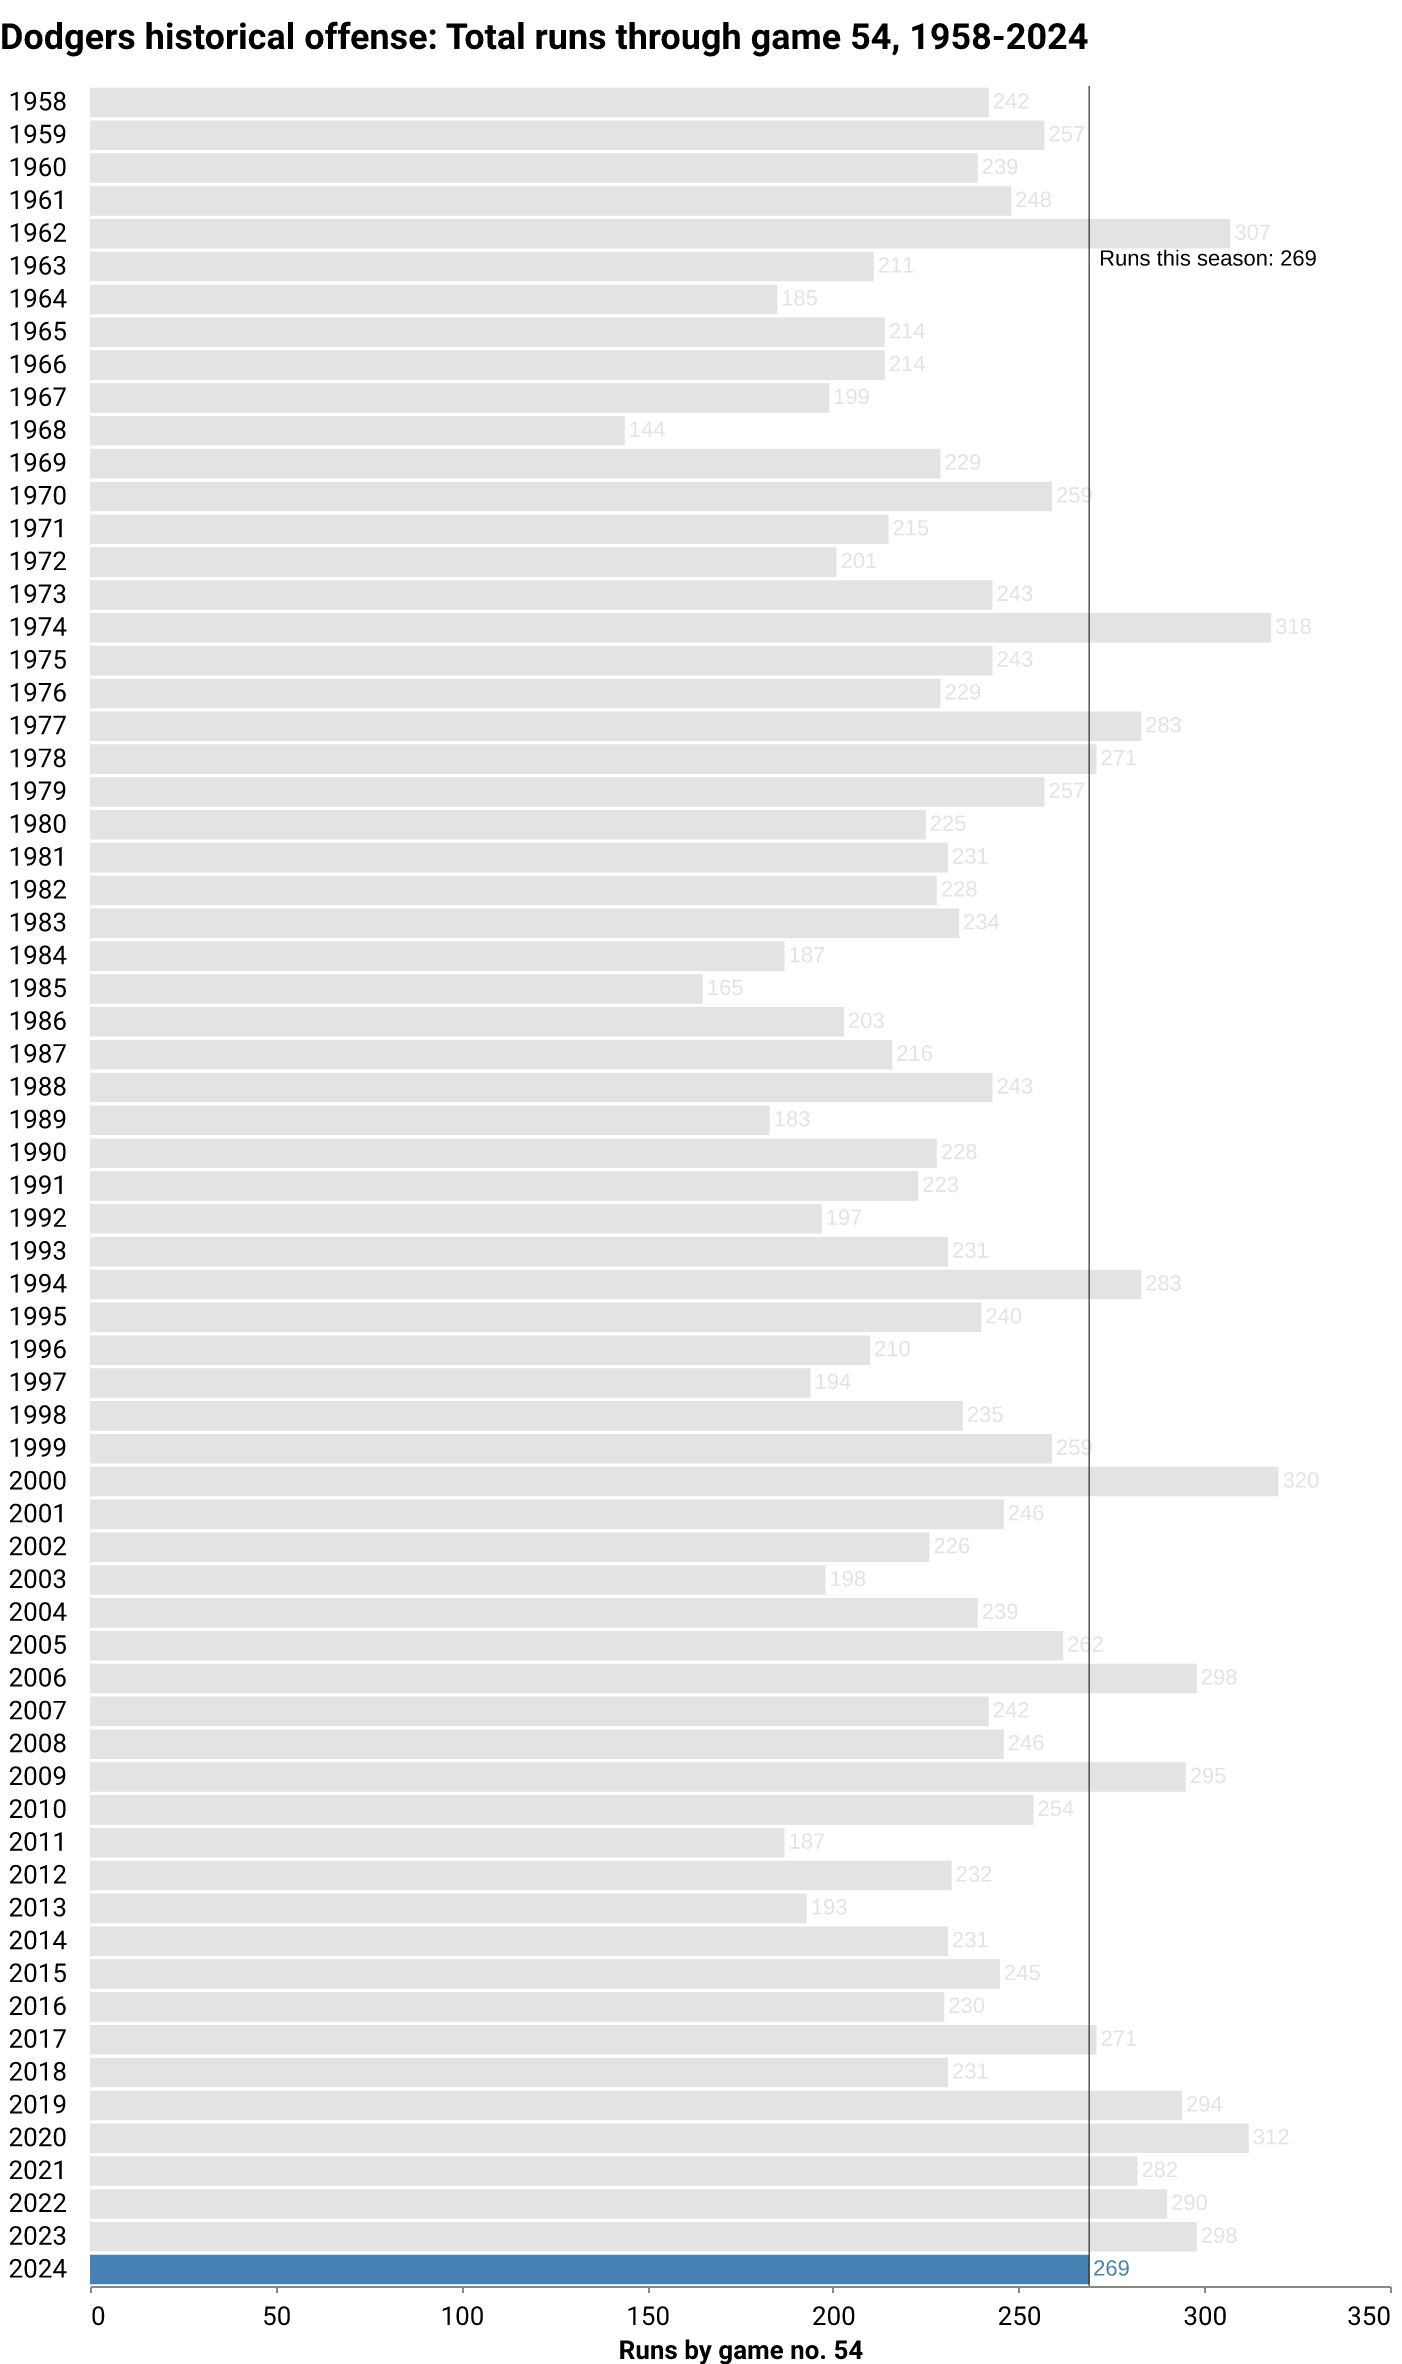
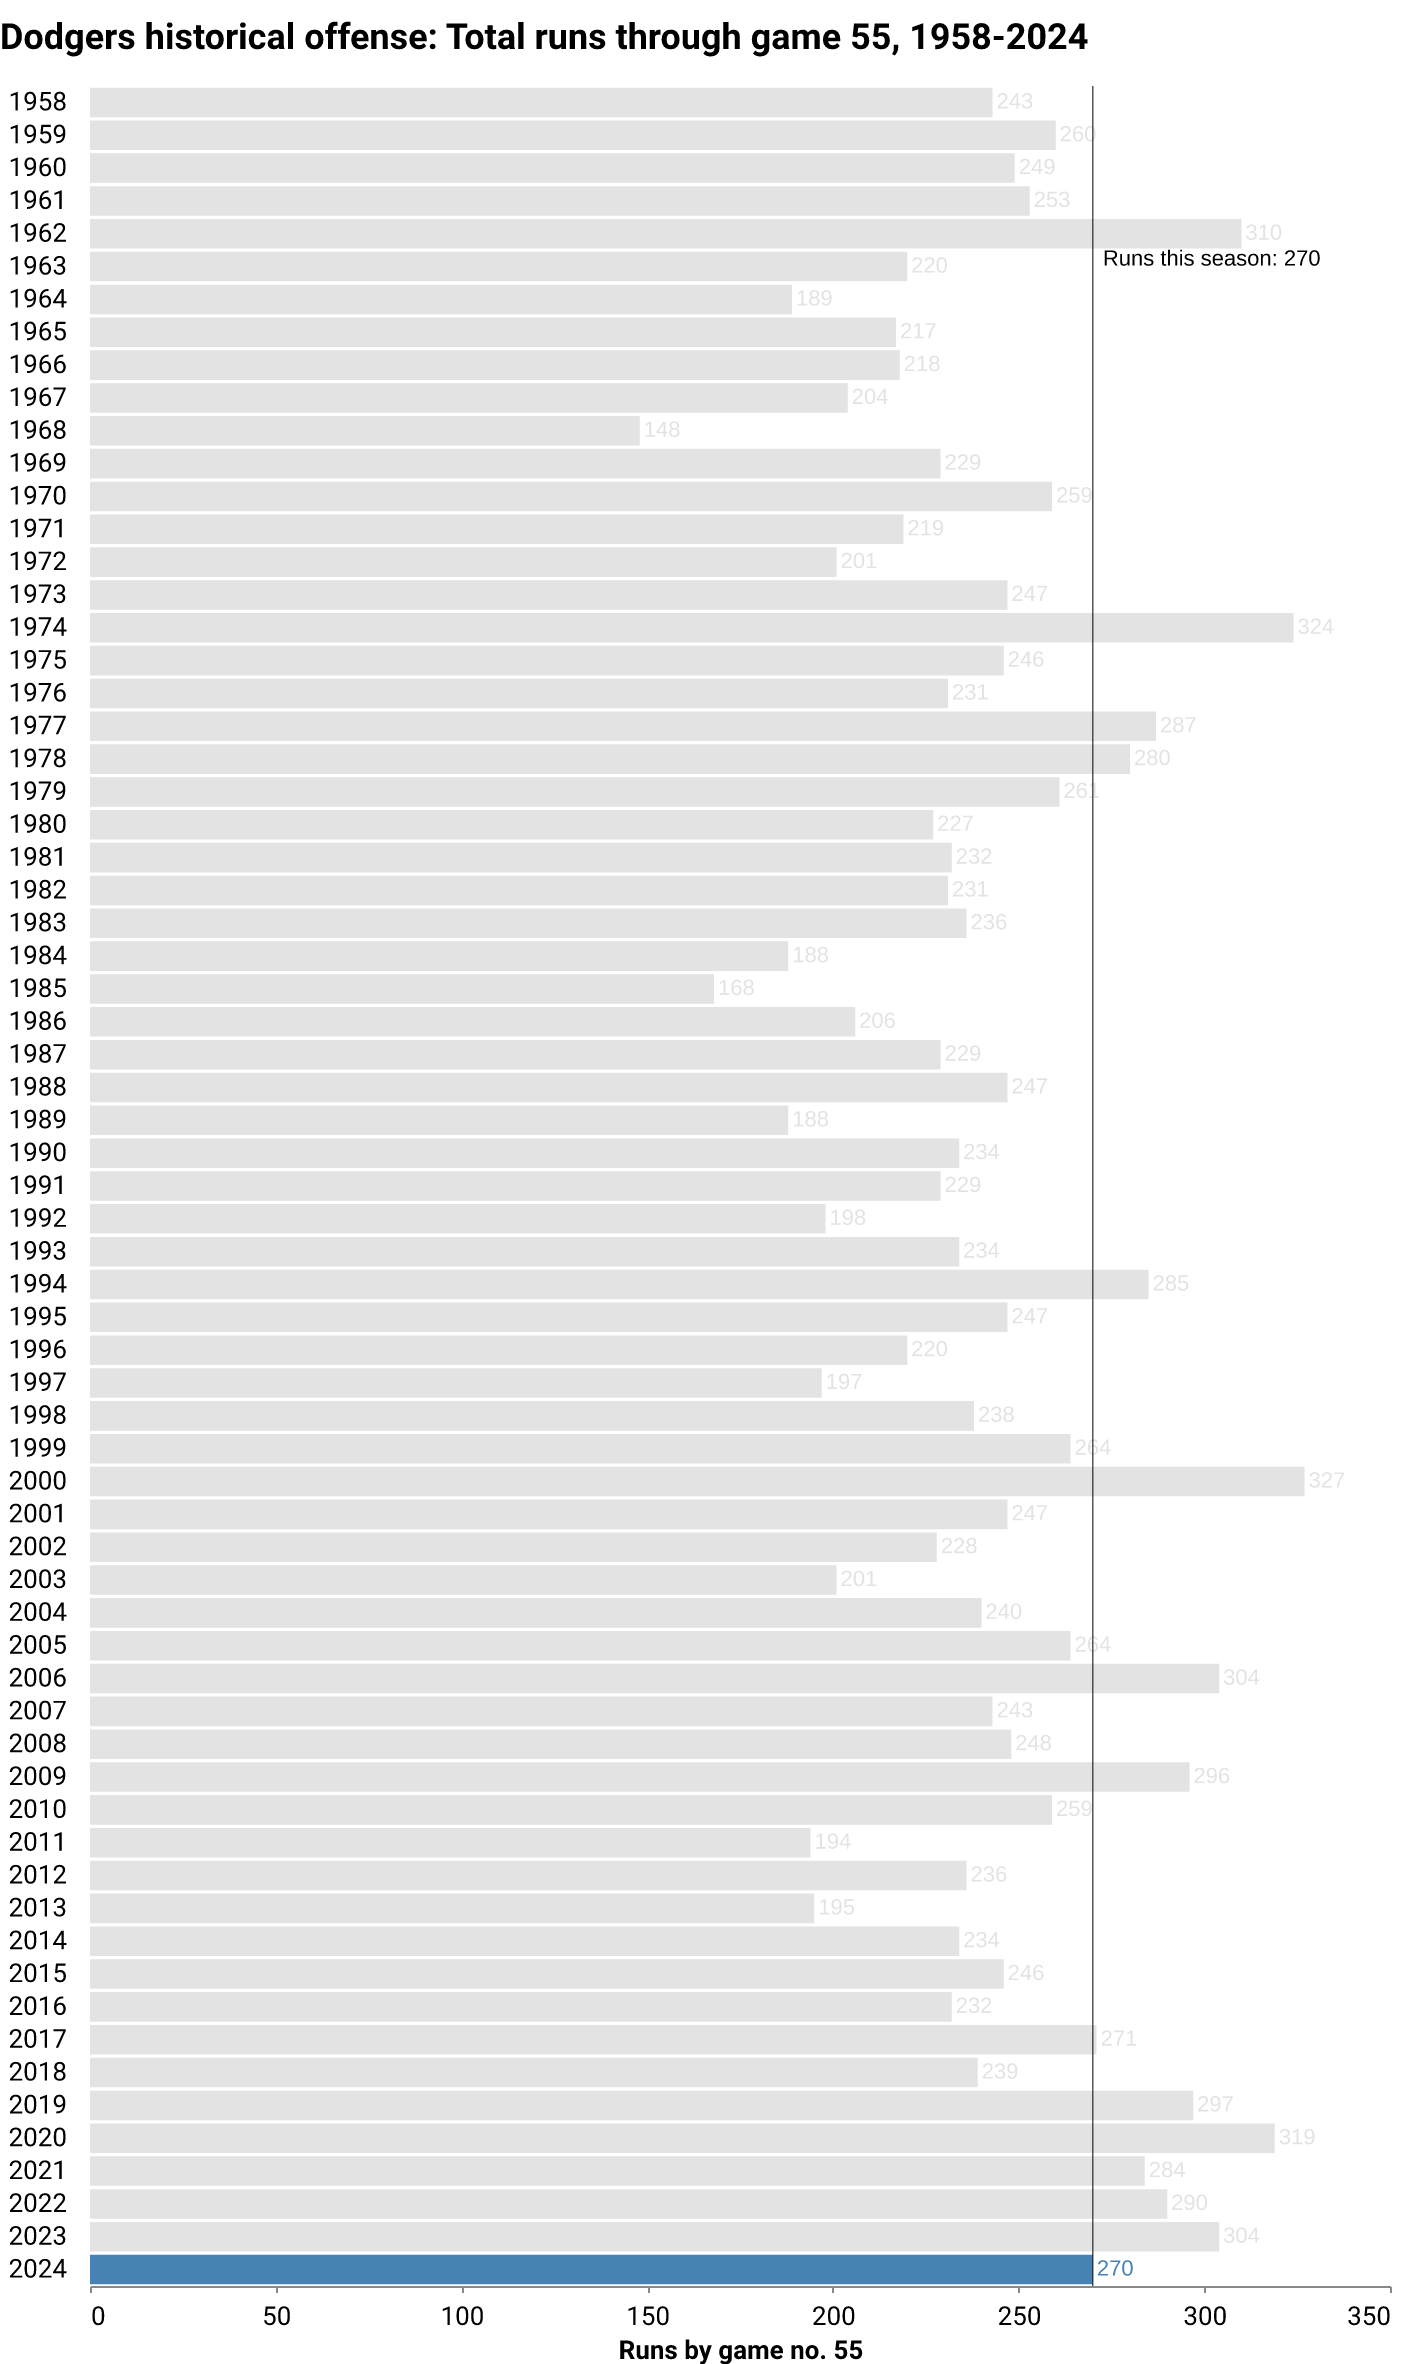
deploy: e6bfd60a1daa411fcebb4711ddaecc462eea148d

diff --git a/index.html b/index.html
@@ -174,7 +174,7 @@
 
 <div class="page-topper">
   <h1 class="headline">How are the Dodgers doing?</h1>
-  <p class="subhead"><span class="highlight">LOS ANGELES</span> <span class="updated">(May 26)</span> — After <span class="highlight">54</span> games this season, the Dodgers are in <span class="highlight">1st</span> place in the National League West division. The team has compiled a <span class="highlight">33-21</span> record, winning <span class="highlight">61%</span> of its games so far. The last game was a <span class="highlight">1-3</span> away <span class="highlight">loss</span> against the Cincinnati Reds in front of <span class="highlight">41,880</span> fans. They've won <span class="highlight">4 of the last 10</span>. </p>
+  <p class="subhead"><span class="highlight">LOS ANGELES</span> <span class="updated">(May 27)</span> — After <span class="highlight">55</span> games this season, the Dodgers are in <span class="highlight">1st</span> place in the National League West division. The team has compiled a <span class="highlight">33-22</span> record, winning <span class="highlight">60%</span> of its games so far. The last game was a <span class="highlight">1-4</span> away <span class="highlight">loss</span> against the Cincinnati Reds in front of <span class="highlight">35,619</span> fans. They've won <span class="highlight">4 of the last 10</span>. </p>
 <div>
 
 
@@ -198,7 +198,7 @@
             <p class="card-text">33</p>
           </div>
           <div class="card-footer text-muted">
-        This point last season: 32
+        This point last season: 33
           </div>
         </div>
       </div>
@@ -211,7 +211,7 @@
             Losses
           </div>
           <div class="card-body">
-            <p class="card-text">21</p>
+            <p class="card-text">22</p>
           </div>
           <div class="card-footer text-muted">
         This point last season: 22
@@ -227,10 +227,10 @@
             Record
           </div>
           <div class="card-body">
-            <p class="card-text">33-21</p>
+            <p class="card-text">33-22</p>
           </div>
           <div class="card-footer text-muted">
-        This point last season: 32-22
+        This point last season: 33-22
           </div>
         </div>
       </div>
@@ -243,10 +243,10 @@
             Win percentage
           </div>
           <div class="card-body">
-            <p class="card-text">61%</p>
+            <p class="card-text">60%</p>
           </div>
           <div class="card-footer text-muted">
-        This point last season: 59%
+        This point last season: 60%
           </div>
         </div>
       </div>
@@ -291,7 +291,7 @@
             Runs
           </div>
           <div class="card-body">
-            <p class="card-text">269</p>
+            <p class="card-text">270</p>
           </div>
           <div class="card-footer text-muted">
         League rank: 2
@@ -307,10 +307,10 @@
             Runs against
           </div>
           <div class="card-body">
-            <p class="card-text">197</p>
+            <p class="card-text">201</p>
           </div>
           <div class="card-footer text-muted">
-        This point last season: 248
+        This point last season: 249
           </div>
         </div>
       </div>
@@ -323,10 +323,10 @@
             Run differential
           </div>
           <div class="card-body">
-            <p class="card-text">72</p>
+            <p class="card-text">69</p>
           </div>
           <div class="card-footer text-muted">
-        This point last season: 50
+        This point last season: 55
           </div>
         </div>
       </div>
@@ -392,7 +392,7 @@
             Batting average
           </div>
           <div class="card-body">
-            <p class="card-text">.255</p>
+            <p class="card-text">.253</p>
           </div>
           <div class="card-footer text-muted">
         Last decade average: .253
@@ -424,7 +424,7 @@
             Home runs/game
           </div>
           <div class="card-body">
-            <p class="card-text">1.26</p>
+            <p class="card-text">1.24</p>
           </div>
           <div class="card-footer text-muted">
         Last decade average: 1.36
@@ -440,7 +440,7 @@
             On-base percentage
           </div>
           <div class="card-body">
-            <p class="card-text">.335</p>
+            <p class="card-text">.333</p>
           </div>
           <div class="card-footer text-muted">
         Last decade average: .332
@@ -472,7 +472,7 @@
             Stolen bases/game
           </div>
           <div class="card-body">
-            <p class="card-text">0.63</p>
+            <p class="card-text">0.62</p>
           </div>
           <div class="card-footer text-muted">
         Rate all last season: 0.65
@@ -543,7 +543,7 @@
             Strikeouts
           </div>
           <div class="card-body">
-            <p class="card-text">453</p>
+            <p class="card-text">462</p>
           </div>
           <div class="card-footer text-muted">
         League rank: 4
@@ -559,7 +559,7 @@
             Walks
           </div>
           <div class="card-body">
-            <p class="card-text">157</p>
+            <p class="card-text">160</p>
           </div>
           <div class="card-footer text-muted">
         League rank: 6
@@ -575,10 +575,10 @@
             ERA
           </div>
           <div class="card-body">
-            <p class="card-text">3.40</p>
+            <p class="card-text">3.42</p>
           </div>
           <div class="card-footer text-muted">
-        League rank: 2
+        League rank: 3
           </div>
         </div>
       </div>
@@ -656,7 +656,7 @@
 
 
 
-<p class="dated">Notes: Last updated May 26, 2024, 3:03 PM PT. More <a href="https://github.com/stiles/dodgers/blob/main/README.md">about the data</a>.</p>
+<p class="dated">Notes: Last updated May 27, 2024, 12:04 AM PT. More <a href="https://github.com/stiles/dodgers/blob/main/README.md">about the data</a>.</p>
 
 
 </div>
